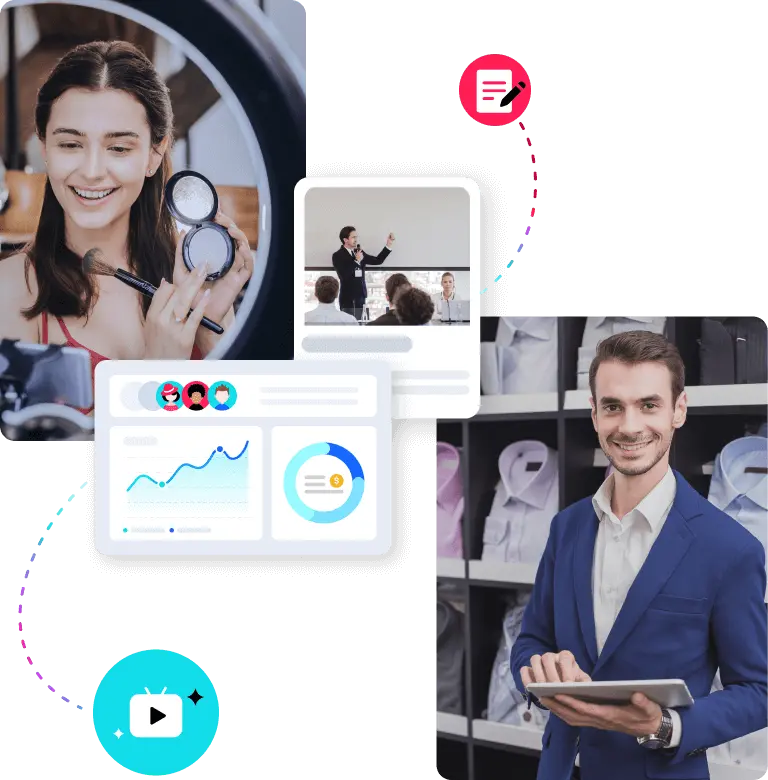
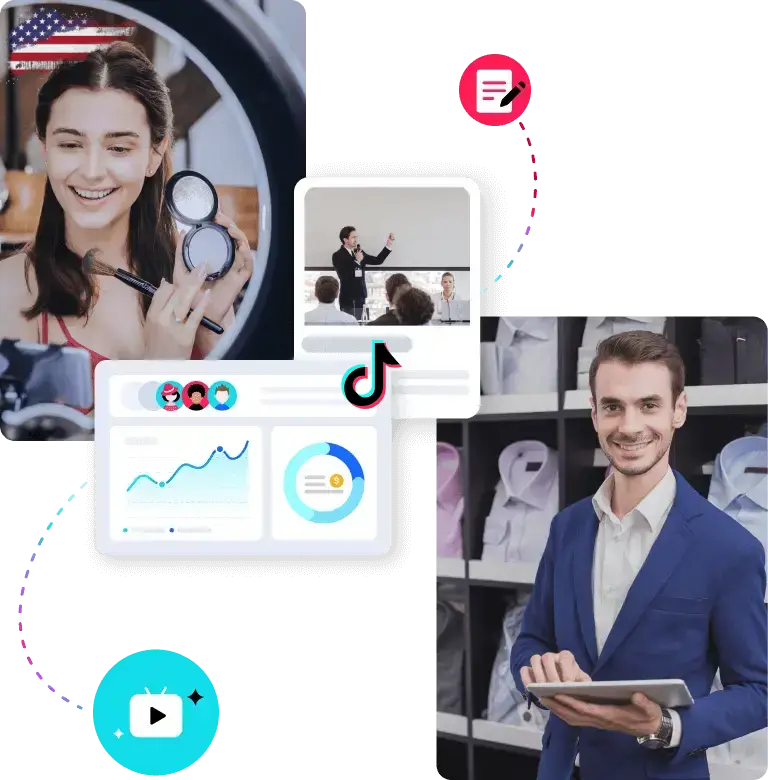
updated the site

diff --git a/src/utils/data.ts b/src/utils/data.ts
@@ -1,40 +1,53 @@
 const services = [
     {
-        title: "Social media marketing",
-        description: "Lorem ipsum dolor sit amet, consectetur adipisicing elit. Corrupti qui soluta cupiditate",
-        icon: `<svg xmlns="http://www.w3.org/2000/svg" fill="none" viewBox="0 0 24 24" stroke-width="1.5" stroke="currentColor" class="w-6 h-6"> <path stroke-linecap="round" stroke-linejoin="round" d="M6 12L3.269 3.126A59.768 59.768 0 0121.485 12 59.77 59.77 0 013.27 20.876L5.999 12zm0 0h7.5" />
-        </svg>`,
-    },
-    {
-        title: "Amazon affiliate marketing",
-        description: "Sunt, ipsam, necessitatibus sint fugit officia laboriosam minima ab ullam at magni et. Quaerat, sint!",
-        icon: `<svg xmlns="http://www.w3.org/2000/svg" fill="none" viewBox="0 0 24 24" stroke-width="1.5" stroke="currentColor" class="w-6 h-6"> <path stroke-linecap="round" stroke-linejoin="round" d="M6 12L3.269 3.126A59.768 59.768 0 0121.485 12 59.77 59.77 0 013.27 20.876L5.999 12zm0 0h7.5" />
-        </svg>`,
-    },
-    {
-        title: "Email marketing",
-        description: "Lorem ipsum dolor sit amet, consectetur adipisicing elit. Corrupti qui soluta cupiditate",
-        icon: `<svg xmlns="http://www.w3.org/2000/svg" fill="none" viewBox="0 0 24 24" stroke-width="1.5" stroke="currentColor" class="w-6 h-6"> <path stroke-linecap="round" stroke-linejoin="round" d="M6 12L3.269 3.126A59.768 59.768 0 0121.485 12 59.77 59.77 0 013.27 20.876L5.999 12zm0 0h7.5" />
-        </svg>`,
-    },
-    {
-        title: "Social media marketing",
-        description: "Lorem ipsum dolor sit amet, consectetur adipisicing elit. Corrupti qui soluta cupiditate",
-        icon: `<svg xmlns="http://www.w3.org/2000/svg" fill="none" viewBox="0 0 24 24" stroke-width="1.5" stroke="currentColor" class="w-6 h-6"> <path stroke-linecap="round" stroke-linejoin="round" d="M6 12L3.269 3.126A59.768 59.768 0 0121.485 12 59.77 59.77 0 013.27 20.876L5.999 12zm0 0h7.5" />
-        </svg>`,
-    },
-    {
-        title: "Amazon affiliate marketing",
-        description: "Sunt, ipsam, necessitatibus sint fugit officia laboriosam minima ab ullam at magni et. Quaerat, sint!",
-        icon: `<svg xmlns="http://www.w3.org/2000/svg" fill="none" viewBox="0 0 24 24" stroke-width="1.5" stroke="currentColor" class="w-6 h-6"> <path stroke-linecap="round" stroke-linejoin="round" d="M6 12L3.269 3.126A59.768 59.768 0 0121.485 12 59.77 59.77 0 013.27 20.876L5.999 12zm0 0h7.5" />
-        </svg>`,
-    },
-    {
-        title: "Email marketing",
-        description: "Lorem ipsum dolor sit amet, consectetur adipisicing elit. Corrupti qui soluta cupiditate",
-        icon: `<svg xmlns="http://www.w3.org/2000/svg" fill="none" viewBox="0 0 24 24" stroke-width="1.5" stroke="currentColor" class="w-6 h-6"> <path stroke-linecap="round" stroke-linejoin="round" d="M6 12L3.269 3.126A59.768 59.768 0 0121.485 12 59.77 59.77 0 013.27 20.876L5.999 12zm0 0h7.5" />
-        </svg>`,
-    },
-];
+      title: "TikTok Shop USA Setup",
+      description:
+        "We handle everything — LLC, EIN, U.S. rep, banking — so you can legally sell on TikTok Shop USA, even as a non‑resident.",
+        icon: `<svg xmlns="http://www.w3.org/2000/svg" fill="none"
+        viewBox="0 0 24 24" stroke-width="1.5" stroke="currentColor"
+        class="w-6 h-6">
+<!-- clipboard top tab -->
+<path stroke-linecap="round" stroke-linejoin="round"
+     d="M9 2.25h6c.621 0 1.125.504 1.125 1.125v1.5c0 .621-.504 1.125-1.125 1.125H9A1.125 1.125 0 017.875 4.875v-1.5C7.875 2.754 8.379 2.25 9 2.25z"/>
+<!-- clipboard body -->
+<path stroke-linecap="round" stroke-linejoin="round"
+     d="M4.5 6.75h15a1.5 1.5 0 011.5 1.5v12a1.5 1.5 0 01-1.5 1.5h-15a1.5 1.5 0 01-1.5-1.5v-12a1.5 1.5 0 011.5-1.5z"/>
+<!-- checkmark -->
+<path stroke-linecap="round" stroke-linejoin="round"
+     d="M9 12l2 2 4-4"/>
+</svg>`
 
-export { services };
+    },
+    {
+      title: "Creator Onboarding & Monetization",
+      description:
+        "If you're a content creator, we help you open your own TikTok Shop USA to start earning from affiliate commissions or product sales.",
+        icon: `<svg xmlns="http://www.w3.org/2000/svg" fill="none"
+        viewBox="0 0 24 24" stroke-width="1.5" stroke="currentColor"
+        class="w-6 h-6">
+        <!-- creator head -->
+        <path stroke-linecap="round" stroke-linejoin="round"
+            d="M12 4.75a3 3 0 110 6 3 3 0 010-6z"/>
+        <!-- shoulders / base -->
+        <path stroke-linecap="round" stroke-linejoin="round"
+            d="M4.5 20.25v-.75A6.75 6.75 0 0111.25 12.75h1.5A6.75 6.75 0 0119.5 19.5v.75"/>
+        <!-- dollar badge -->
+        <circle cx="18" cy="6" r="3.25"/>
+        <path stroke-linecap="round" stroke-linejoin="round"
+            d="M18 4.75v2.5m1.25-1.25h-2.5"/>
+        </svg>`
+
+
+    },
+    {
+      title: "U.S. Business Registration",
+      description:
+        "We’ll register your LLC, get your EIN, and assign a U.S. representative to make sure your business is fully compliant for TikTok Shop.",
+      icon: `<svg xmlns="http://www.w3.org/2000/svg" fill="none" viewBox="0 0 24 24" stroke-width="1.5" stroke="currentColor" class="w-6 h-6"><path stroke-linecap="round" stroke-linejoin="round" d="M4.5 12.75l6 6 9-13.5" /></svg>`,
+    },
+  ];
+  
+  export { services };
+  
+
+
